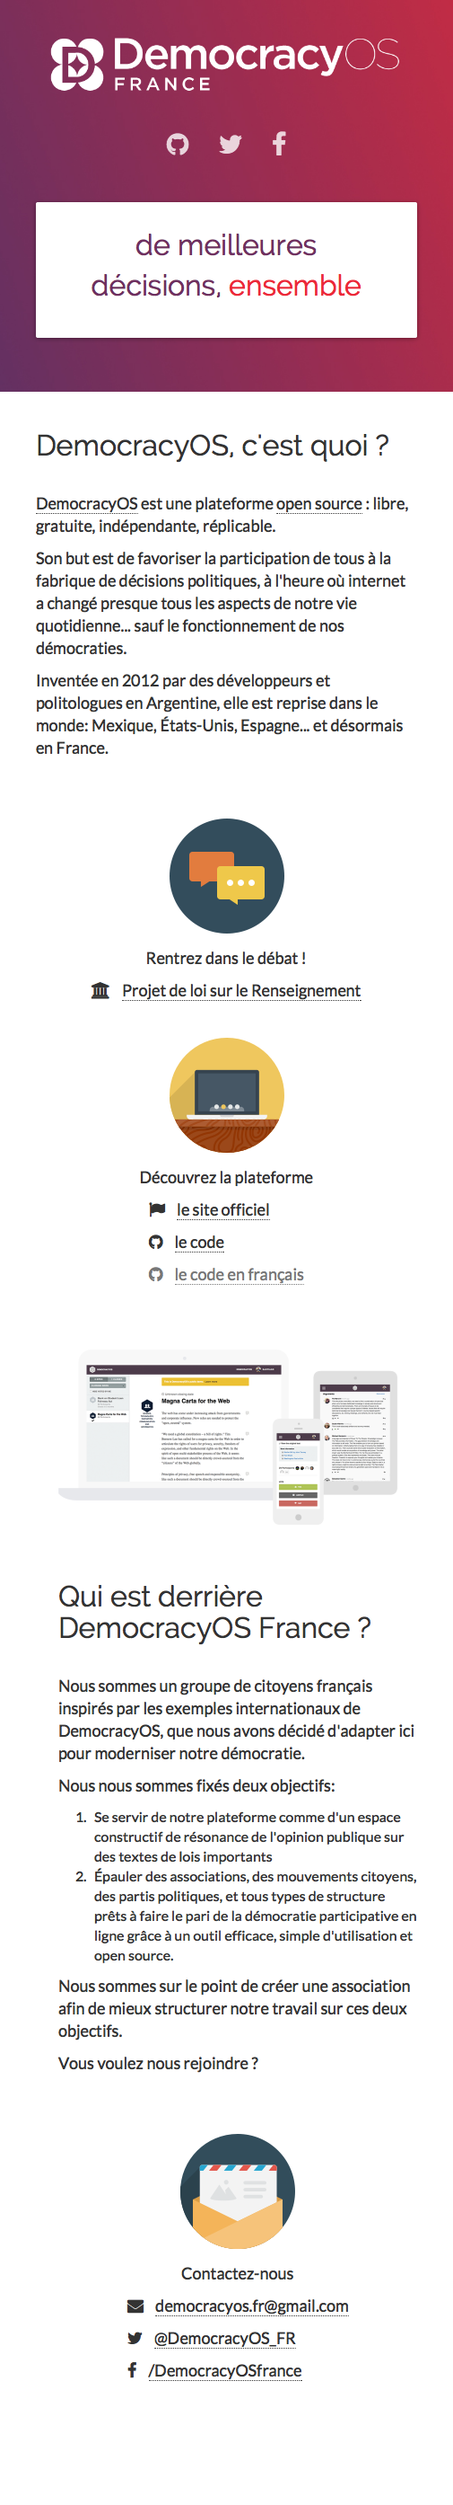
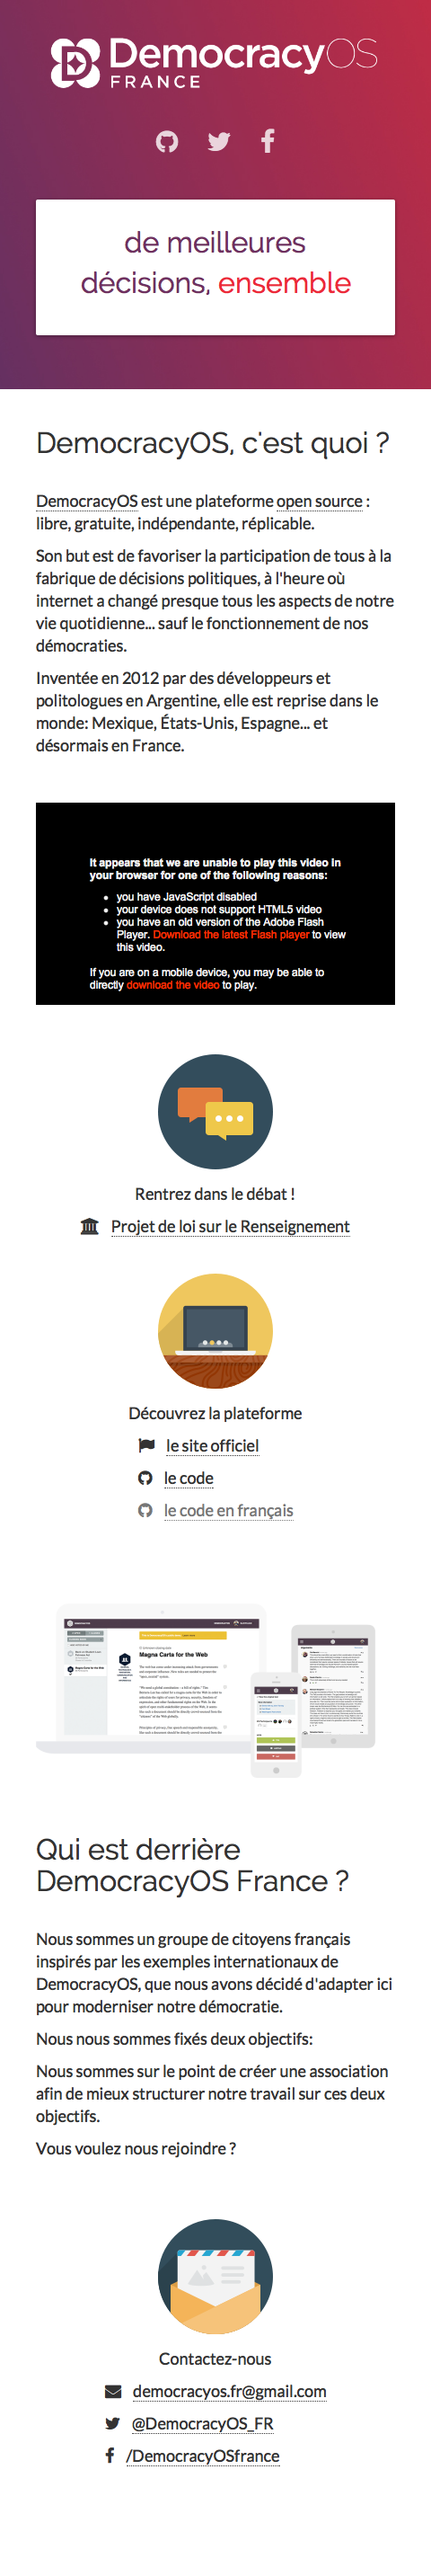
fix mobile

diff --git a/index.html b/index.html
@@ -24,23 +24,23 @@
     <header>
       <div class="container">
         <nav class="navbar" >
-	        
+
 	        <span class="navbar-brand">
           	<img class="img-responsive" src="img/logo-w.png" alt="logo">
 	        </span>
-          
+
           <ul class="nav">
             <li><a href="https://github.com/democracy-os-fr"><i class="fa fa-github"></i></a></li>
             <li><a href="https://twitter.com/DemocracyOS_FR"><i class="fa fa-twitter"></i></a></li>
             <li><a href="https://www.facebook.com/DemocracyOSfrance"><i class="fa fa-facebook"></i></a></li>
           </ul>
-          
+
         </nav>
-        
+
         <div class="punch-line">
 	        <p>de&nbsp;meilleures décisions,&nbsp;<b>ensemble</b></p>
         </div>
-        
+
       </div>
     </header>
 
@@ -48,7 +48,7 @@
       <h1>DemocracyOS, c'est quoi ?</h1>
       <p><a href="http://democracyos.org/">DemocracyOS</a> est une <b>plateforme <a href="https://github.com/democracyos">open source</a></b> : libre, gratuite, indépendante, réplicable.</p>
       <p>
-      	Son but est de <b>favoriser la participation de tous à la fabrique de décisions politiques</b>, 
+      	Son but est de <b>favoriser la participation de tous à la fabrique de décisions politiques</b>,
       	à l'heure où internet a changé presque tous les aspects de notre vie quotidienne...
 				sauf le fonctionnement de nos démocraties.
 			</p>
@@ -59,29 +59,37 @@
       </p>
     </section>
 
+<!--
+    <section class="container">
+    	<div class="embed-responsive embed-responsive-16by9">
+				<iframe class="embed-responsive-item" src="https://embed-ssl.ted.com/talks/lang/fr/pia_mancini_how_to_upgrade_democracy_for_the_internet_era.html" webkitAllowFullScreen mozallowfullscreen allowFullScreen></iframe>
+    	</div>
+    </section>
+-->
+
 		<section class="container">
-			
+
 			<div class="row">
-				
+
 				<div class="col-sm-6 feature-box">
-					
+
 					<span class="big-icon"><img class="img-responsive center-block" src="img/bubbles.png" alt="contact"></span>
-					
+
 					<p><b>Rentrez dans le débat !</b></p>
-					
+
 					<p>
 						<a class="fa fa-bank" href="http://pjlr.democracyos.eu/" title="projet de loi sur le renseignement"></a>
 						<a href="http://pjlr.democracyos.eu/" title="projet de loi sur le renseignement">Projet de loi sur le Renseignement</a>
 					</p>
-					
+
 				</div>
-				
+
 				<div class="col-sm-6 feature-box">
-					
+
 					<span class="big-icon"><img class="img-responsive center-block" src="img/laptop.png" alt="contact"></span>
-					
+
 					<p><b>Découvrez la plateforme</b></p>
-					
+
 					<div class="items">
 						<p class="text-left">
 							<a class="fa fa-flag" href="http://democracyos.org/"></a>
@@ -96,34 +104,34 @@
 							<a href="https://github.com/democracy-os-fr">le code en français</a>
 						</p>
 					</div>
-									
+
+				</div>
+			
 			</div>
-		
+			
+		</section>
+			
 		<section class="container">
 			<img class="img-responsive" src="img/devices-preview.png" alt="devices-preview">
 		</section>
-		
+
     <section class="container">
 			<h1>Qui est derrière DemocracyOS France ?</h1>
 			<p>Nous sommes un groupe de citoyens français inspirés par les exemples internationaux de DemocracyOS, que nous avons décidé d'adapter ici pour moderniser notre démocratie.</p>
 			<p>Nous nous sommes fixés deux objectifs:</p>
-			<ol>
-				<li>Se servir de notre plateforme comme d'un <b>espace constructif de résonance de l'opinion publique</b> sur des textes de lois importants</li>
-				<li>Épauler des associations, des mouvements citoyens, des partis politiques, et tous types de structure prêts à <b>faire le pari de la démocratie participative en ligne</b> grâce à un outil efficace, simple d'utilisation et open source.</li>
-			</ol>
 			<p>Nous sommes sur le point de créer une association afin de mieux structurer notre travail sur ces deux objectifs.</p>
 			<p><b>Vous voulez nous rejoindre ?</b></p>
     </section>
 
 
 		<section class="container">
-			
+
 			<div class="feature-box">
-					
+
 					<span class="big-icon"><img class="img-responsive center-block" src="img/contact.png" alt="contact"></span>
-					
+
 					<p><b>Contactez-nous</b></p>
-					
+
 					<div class="items">
 					<p class="text-left">
 						<a class="fa fa-envelope" href="mailto:democracyos.fr@gmail.com"></a>
@@ -138,9 +146,9 @@
 						<a href="https://www.facebook.com/DemocracyOSfrance">/DemocracyOSfrance</a>
 					</p>
 					</div>
-					
+
 			</div>
-			
+
 		</section>
 
 

diff --git a/css/main.min.css b/css/main.min.css
@@ -1,1 +1,1 @@
-a,a:hover{color:inherit}.slabtexted .slabtext{display:-moz-inline-box;display:inline-block;white-space:nowrap}.slabtextinactive .slabtext{display:inline;white-space:normal;font-size:1em!important;letter-spacing:inherit!important;word-spacing:inherit!important}.slabtextdone .slabtext{display:block}body{font-weight:300;padding-bottom:50px}b,strong{font-weight:400}a{border-bottom:1px dotted}a:hover{text-decoration:none}.text-thin{font-weight:100}.cover-heading{font-weight:400}section p{font-size:18px}.punch-line{font-family:Raleway,sans-serif;font-size:41px;text-align:center}.container{max-width:992px;min-width:480px;padding:0 40px}header{height:auto;background:url(../img/bg-fr.jpg)center center no-repeat;background-size:cover}@media (max-width:991px){.punch-line,h1{font-size:32px}header{height:auto}}header .navbar .navbar-brand img{height:40px}@media (max-width:991px){header .navbar .navbar-brand{display:block;float:none;height:auto;padding-top:40px}header .navbar .navbar-brand img{height:auto}}header .navbar a{color:#fff;opacity:.8;-webkit-transition:all 400ms ease;transition:all 400ms ease;border-bottom:2px solid transparent}header .navbar a:hover{border-color:#fff;background-color:transparent;opacity:1}header .navbar ul.nav{float:right}header .navbar ul.nav li{display:inline-block}header .navbar ul.nav .fa{font-size:28px;margin-top:15px;margin-bottom:15px}header .punch-line{max-width:768px;border-radius:2px;box-shadow:0 1px 6px rgba(0,0,0,.4);background-color:#fff;color:#6f3060;padding:25px 50px;margin:50px auto 100px}@media (max-width:991px){header .navbar ul.nav{float:none;text-align:center}header .punch-line{margin:10px auto 60px}}header .punch-line b{color:#ec2939}section.container{padding:20px 40px}section.container h1{margin-bottom:35px}section.container .feature-box{text-align:center;margin-bottom:40px}section.container .feature-box .big-icon{display:block;margin:15px auto}section.container .feature-box .fa{margin-right:10px}section.container .feature-box a.fa{border-bottom-style:none}section.container .feature-box .items{display:inline-block}
+a,a:hover{color:inherit}.slabtexted .slabtext{display:-moz-inline-box;display:inline-block;white-space:nowrap}.slabtextinactive .slabtext{display:inline;white-space:normal;font-size:1em!important;letter-spacing:inherit!important;word-spacing:inherit!important}.slabtextdone .slabtext{display:block}body{font-weight:300;min-width:480px;padding-bottom:50px}b,strong{font-weight:400}a{border-bottom:1px dotted}a:hover{text-decoration:none}.text-thin{font-weight:100}.cover-heading{font-weight:400}section p{font-size:18px}.punch-line{font-family:Raleway,sans-serif;font-size:41px;text-align:center}.container{max-width:992px;padding:0 40px}header{height:auto;background:url(../img/bg-fr.jpg)center center no-repeat;background-size:cover}@media (max-width:991px){.punch-line,h1{font-size:32px}header{height:auto}}header .navbar .navbar-brand img{height:40px}@media (max-width:991px){header .navbar .navbar-brand{display:block;float:none;height:auto;padding-top:40px}header .navbar .navbar-brand img{height:auto}}header .navbar a{color:#fff;opacity:.8;-webkit-transition:all 400ms ease;transition:all 400ms ease;border-bottom:2px solid transparent}header .navbar a:hover{border-color:#fff;background-color:transparent;opacity:1}header .navbar ul.nav{float:right}header .navbar ul.nav li{display:inline-block}header .navbar ul.nav .fa{font-size:28px;margin-top:15px;margin-bottom:15px}header .punch-line{max-width:768px;border-radius:2px;box-shadow:0 1px 6px rgba(0,0,0,.4);background-color:#fff;color:#6f3060;padding:25px 50px;margin:50px auto 100px}@media (max-width:991px){header .navbar ul.nav{float:none;text-align:center}header .punch-line{margin:10px auto 60px}}header .punch-line b{color:#ec2939}section.container{padding:20px 40px}section.container h1{margin-bottom:35px}section.container .feature-box{text-align:center;margin-bottom:40px}section.container .feature-box .big-icon{display:block;margin:15px auto}section.container .feature-box .fa{margin-right:10px}section.container .feature-box a.fa{border-bottom-style:none}section.container .feature-box .items{display:inline-block}

diff --git a/less/main.less b/less/main.less
@@ -7,20 +7,21 @@
 @import (reference) "../bower_components/bootstrap/less/mixins.less" ;
 
 body {
-	padding-bottom: 50px ;	
+	
+	min-width: @page-min-width ;
+	padding-bottom: 50px ;
+		
 }
 
 .container {
 	
 	max-width: @screen-md ;
-	min-width: @screen-xs ;
 	padding: 0 40px ;
 
 }
 
 header {
-		
-		height: auto ;
+		height: auto  ;
 		background: url('../img/bg-fr.jpg') center center no-repeat transparent ;
 		background-size: cover ;
 	

diff --git a/gulpfile.js b/gulpfile.js
@@ -61,6 +61,11 @@ gulp.task('phantom', function(){
 
 gulp.task('build', ['copy-css','copy-js','copy-fonts','js','less', 'phantom']);
 
+gulp.task('export-dev', ['build'], function(){
+	return gulp.src(['css/**','fonts/**','js/*','img/**','*.html','screenshot*.png'])
+    .pipe(gulp.dest('dist')) ;
+});
+
 gulp.task('less-reload', ['less'], browserSync.reload );
 gulp.task('js-reload', ['js'], browserSync.reload );
 

diff --git a/css/main.css b/css/main.css
@@ -51,15 +51,15 @@ section p {
   }
 }
 body {
+  min-width: 480px;
   padding-bottom: 50px ;
 }
 .container {
   max-width: 992px;
-  min-width: 480px;
   padding: 0 40px ;
 }
 header {
-  height: auto ;
+  height: auto  ;
   background: url('../img/bg-fr.jpg') center center no-repeat transparent;
   background-size: cover ;
 }

diff --git a/less/variables.inc.less b/less/variables.inc.less
@@ -3,6 +3,8 @@
 @import (reference) "../bower_components/bootstrap/less/variables.less" ;
 
 
+@page-min-width: @screen-xs ;
+
 @navbar-height: 80px ;
 @navbar-line-height: 40px ;
 @navbar-padding-vertical: ((@navbar-height - @navbar-line-height) / 2);
